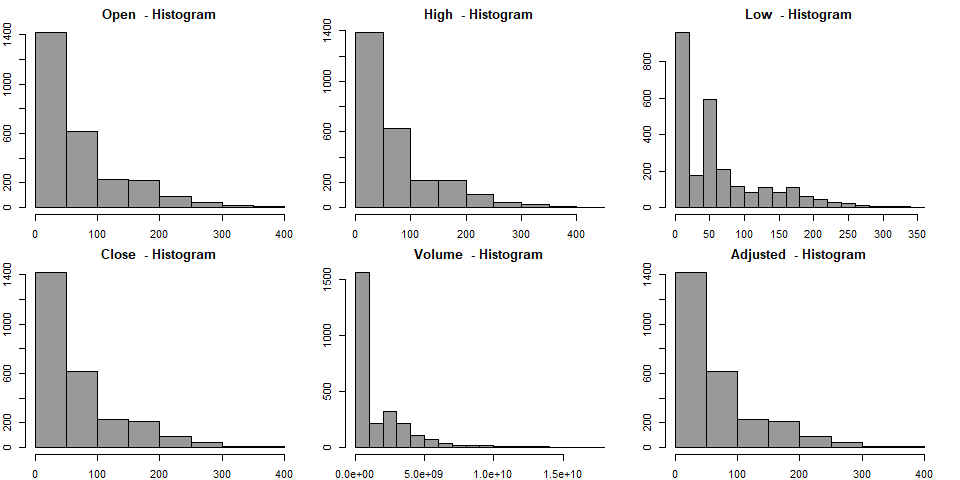
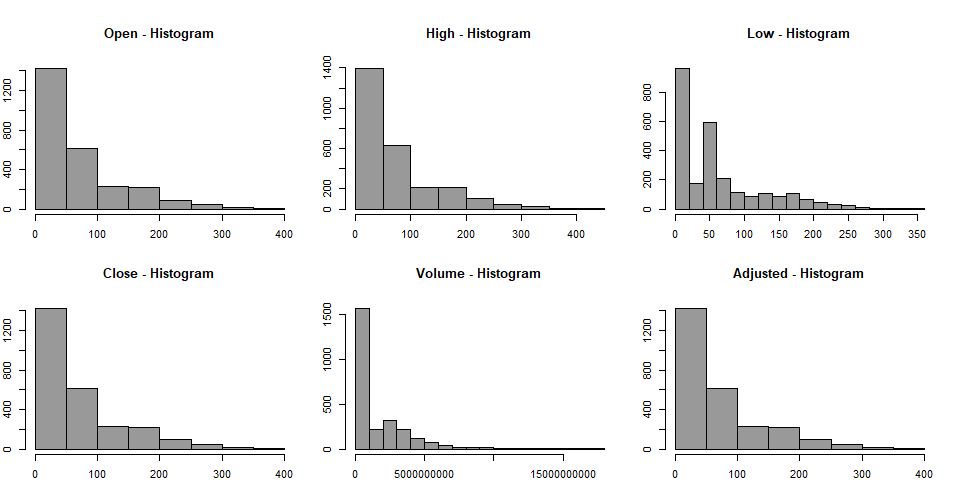
updated project

diff --git a/code/Litecoin.md b/code/Litecoin.md
@@ -155,12 +155,13 @@ summary(litecoin_df[,6]) # summary stats of adjusted close prices
 ``` r
 # histogram distributions
 par(mfrow = c(2,3), 
-    mar = c(2, 2, 2, 2))
+    mar = c(2, 2, 5, 2))
+options(scipen=999)
 
 for (i in 1:ncol(litecoin_df)) {
     hist(litecoin_df[,i],
     xlab = names(litecoin_df[i]), 
-    main = paste(names(litecoin_df[i]), " - Histogram"), 
+    main = paste(names(litecoin_df[i]), "- Histogram"), 
     col="gray60")
   }
 ```
@@ -170,7 +171,7 @@ for (i in 1:ncol(litecoin_df)) {
 ``` r
 # boxplot distributions
 par(mfrow = c(2, 3),
-    mar = c(2, 2, 2, 2))
+    mar = c(2, 2, 5, 2))
 
 for (i in 1:ncol(litecoin_df)) {
     boxplot(litecoin_df[,i],
